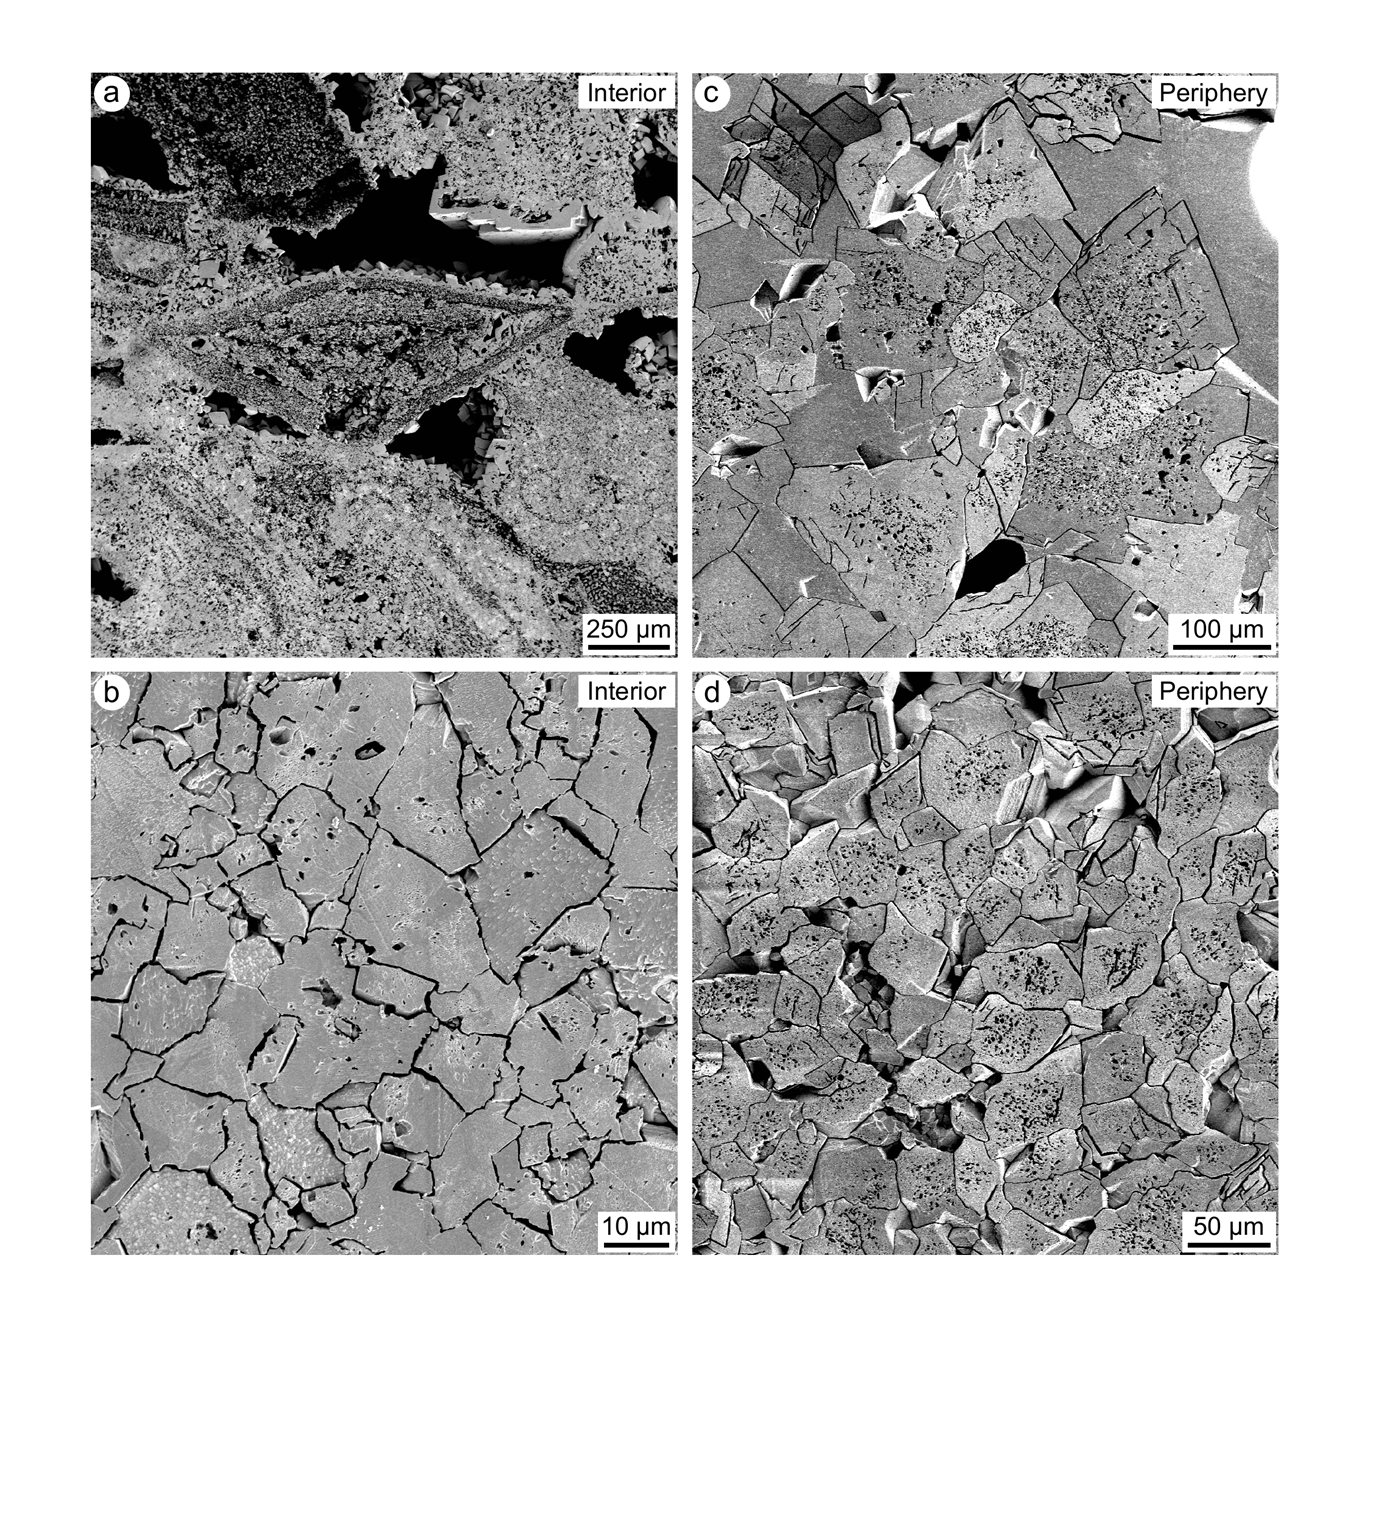
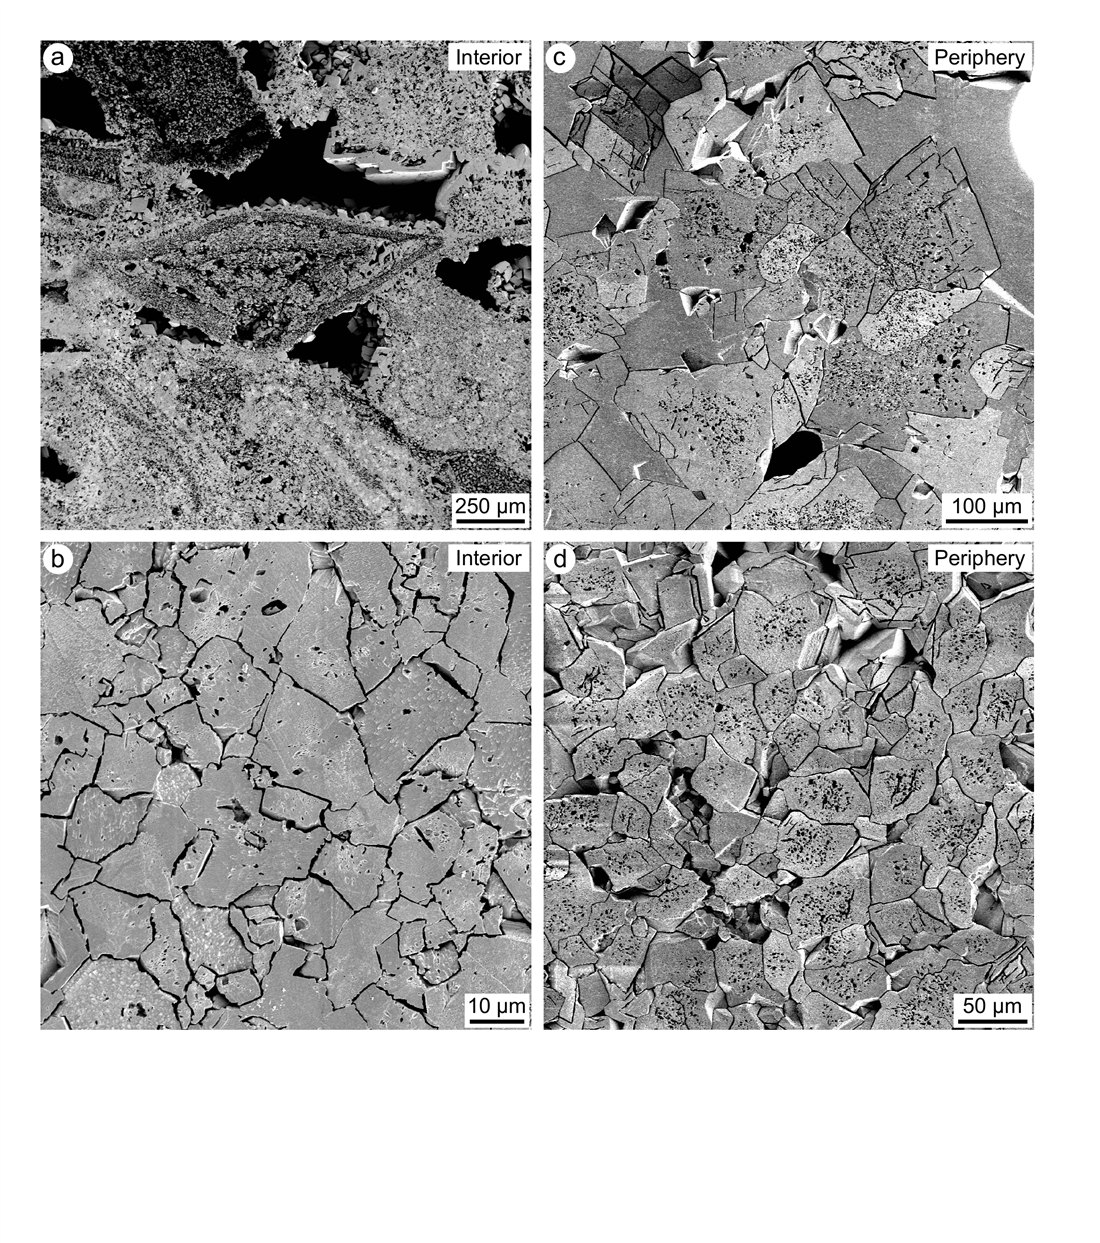
Polish Island Dolostones page: tighten lede/overview wording, add delta18O-fluid smoking-gun detail, crop and enlarge SEM/clumped-isotope figures, merge Ce/U-concentration plots into one figure, shorten in-text citations to APA et al. form

diff --git a/research-island-dolostones.html b/research-island-dolostones.html
@@ -27,9 +27,10 @@
     <div class="kicker">Research</div>
     <h1>Cenozoic Island Dolostones</h1>
     <p class="lede">
-      A best-case test of the carbonate archive: even where dolomitization looks as close to
-      &ldquo;textbook&rdquo; low-temperature, marine as the rock record gets, one geochemical proxy still
-      failed silently while another survived intact.
+      A best-case test of geochemical proxies in ancient dolostones: even where carbonate diagenesis
+      looks as close to &ldquo;textbook&rdquo; low-temperature, seawater dolomitization as the rock
+      record gets, carbonate clumped isotopes (&Delta;<sub>47</sub>) and cerium anomalies (Ce/Ce&#42;)
+      remain intact, while &delta;<sup>238</sup>U has been overprinted.
     </p>
   </div>
 
@@ -39,22 +40,23 @@
       Modern examples of low-temperature dolomite formation are rare, which makes Cenozoic &ldquo;island
       dolostones&rdquo; &mdash; like those on Grand Cayman and Cayman Brac (British West Indies) &mdash;
       one of the best natural laboratories available for testing how carbonate geochemical proxies hold
-      up during dolomitization. These platforms are young, shallowly buried, and still host active
-      groundwater systems, so the diagenetic fluids responsible for dolomitizing them can be directly
-      characterized rather than inferred.
+      up during dolomitization. These platforms are geologically young, have never been deeply buried,
+      and the conditions responsible for dolomitization can be reasonably inferred.
     </p>
     <p>
-      A well-documented dolomitization front on Grand Cayman gives an unusually clean version of this
+      A well-documented dolomitization front on Grand Cayman gives a clean version of this
       test. Using carbonate clumped isotopes (&Delta;<sub>47</sub>), dolostones along the platform
       <strong>periphery</strong> return a formation temperature of 19.1 &plusmn; 1.4&deg;C from a fluid
       with &delta;<sup>18</sup>O<sub>FLUID</sub> = 0.2 &plusmn; 0.5&permil; VSMOW &mdash; indistinguishable
-      from normal modern seawater. Petrographically, the dolomite crystals are clean and well-ordered.
-      By any standard, this is about as close to textbook, low-temperature marine dolomitization as the
+      from normal modern seawater. Petrographically, the dolomite crystals are pristine.
+      By any standard, this is about as close to textbook, low-temperature seawater dolomitization as the
       geological record offers.
     </p>
     <p>
       Then we measured uranium isotopes (&delta;<sup>238</sup>U) in that <em>same</em> dolomitization
-      front. Despite the pristine petrography and unambiguous seawater-temperature signal, &delta;<sup>238</sup>U
+      front. Despite pristine petrography and an unambiguous seawater-temperature and
+      &delta;<sup>18</sup>O<sub>FLUID</sub> signature &mdash; the smoking gun for true seawater
+      dolomitization &mdash; &delta;<sup>238</sup>U
       in the dolostones is offset from both modern seawater and the coeval limestone &mdash; a clear
       diagenetic overprint. Cerium anomalies (Ce/Ce&#42;), measured on the same samples, show no such
       offset at all. Two proxies, same rocks, same fluid history: one survives, one doesn't &mdash; and
@@ -96,9 +98,9 @@
       <img src="assets/img/figures/island-dolostones-fig3-sem-petrography.jpg" alt="SEM images of dolomite crystals from the interior and periphery of Grand Cayman, showing clean, well-ordered crystal faces with minimal secondary alteration.">
       <figcaption>
         The same story at much higher magnification &mdash; SEM petrography of Grand Cayman dolomite,
-        interior (a&ndash;b) and periphery (c&ndash;d): clean crystal faces and minimal secondary
+        interior (a&ndash;b) and periphery (c&ndash;d): pristine crystal faces and minimal secondary
         alteration, from hand sample down to the micron scale.
-        <span class="src">From Fig. 4, McCormick, Jones, Olsen &amp; Ingalls, Carbonate clumped isotopes (&Delta;<sub>47</sub>) in Cenozoic &lsquo;island dolostones&rsquo; (In Press, <em>Geochemistry, Geophysics, Geosystems</em>).</span>
+        <span class="src">From Fig. 4, McCormick et al. (In Press), Carbonate clumped isotopes (&Delta;<sub>47</sub>) in Cenozoic &lsquo;island dolostones&rsquo;.</span>
       </figcaption>
     </figure>
 
@@ -110,33 +112,21 @@
         diamonds) cluster at low temperature and near-zero &delta;<sup>18</sup>O<sub>FLUID</sub> &mdash;
         a normal-seawater signature &mdash; distinct from the warmer, evaporated &ldquo;interior&rdquo;
         samples (orange).
-        <span class="src">From Fig. 7, McCormick, Jones, Olsen &amp; Ingalls, Carbonate clumped isotopes (&Delta;<sub>47</sub>) in Cenozoic &lsquo;island dolostones&rsquo; (In Press, <em>Geochemistry, Geophysics, Geosystems</em>).</span>
+        <span class="src">From Fig. 7, McCormick et al. (In Press), Carbonate clumped isotopes (&Delta;<sub>47</sub>) in Cenozoic &lsquo;island dolostones&rsquo;.</span>
       </figcaption>
     </figure>
 
     <figure class="figure-card" style="margin-top:1.2rem;">
-      <img src="assets/img/figures/island-dolostones-fig-ce-anomalies.png" alt="Crossplot of cerium anomaly versus uranium isotope ratio, showing dolostone and limestone samples overlapping in cerium anomaly value regardless of rock type.">
+      <img src="assets/img/figures/island-dolostones-fig-u-isotopes-combined.png" alt="Two stacked crossplots: cerium anomaly and uranium concentration, each plotted against uranium isotope ratio, showing dolostone and limestone samples in distinct color-coded bands.">
       <figcaption>
-        Cerium anomalies (Ce/Ce&#42;) survive dolomitization: dolostone and limestone samples overlap at
-        Ce/Ce&#42; &asymp; 0.6 regardless of rock type. <strong>Colors:</strong> tan/brown markers and the
-        tan shaded band are dolostone samples and their 95% confidence interval; blue markers and the blue
-        shaded band are limestone samples and their 95% confidence interval; the dashed line marks modern
-        seawater. <strong>Shapes</strong> denote individual wells (GFN-2, HRQ-2, EEV-2, RWP-2).
-        <span class="src">From Fig. 2C, McCormick, Jones, Hardisty &amp; Lau, Decoupled behaviour of cerium anomalies and uranium isotopes during dolomitization (In Prep).</span>
-      </figcaption>
-    </figure>
-
-    <figure class="figure-card" style="margin-top:1.2rem;">
-      <img src="assets/img/figures/island-dolostones-fig-u-concentrations.png" alt="Crossplot of uranium concentration normalized to calcium and magnesium versus uranium isotope ratio, showing a wide, overlapping spread between dolostone and limestone samples." >
-      <figcaption>
-        Uranium concentration (U/(Ca+Mg)) versus &delta;<sup>238</sup>U: unlike Ce/Ce&#42;, both
-        concentration and isotope ratio scatter widely and overlap between dolostone and limestone,
-        underscoring that &delta;<sup>238</sup>U carries a diagenetic signal that concentration alone
-        doesn't reveal. <strong>Colors:</strong> tan/brown markers and shaded band are dolostone samples
-        and their 95% confidence interval; blue markers and shaded band are limestone samples and their
-        95% confidence interval; the dashed line marks modern seawater. <strong>Shapes</strong> denote
-        individual wells (GFN-2, HRQ-2, EEV-2, RWP-2).
-        <span class="src">From Fig. 2D, McCormick, Jones, Hardisty &amp; Lau, Decoupled behaviour of cerium anomalies and uranium isotopes during dolomitization (In Prep).</span>
+        Cerium anomalies (Ce/Ce&#42;, upper) survive dolomitization &mdash; dolostone and limestone
+        samples overlap at Ce/Ce&#42; &asymp; 0.6 regardless of rock type &mdash; while uranium
+        concentration (U/(Ca+Mg), lower) scatters widely and overlaps between rock types, showing that
+        concentration alone doesn't reveal the &delta;<sup>238</sup>U overprint. <strong>Colors:</strong>
+        tan/brown markers and shaded band are dolostone samples and their 95% confidence interval; blue
+        markers and shaded band are limestone samples and their 95% confidence interval; the dashed line
+        marks modern seawater.
+        <span class="src">From Fig. 2C&ndash;D, McCormick et al. (In Prep), Decoupled behaviour of cerium anomalies and uranium isotopes during dolomitization.</span>
       </figcaption>
     </figure>
   </section>

diff --git a/css/style.css b/css/style.css
@@ -254,9 +254,9 @@ ul.plain li { margin-bottom: 0.5em; }
 }
 
 .figure-card img {
-  max-width: 100%;
-  max-height: 520px;
-  width: auto;
+  width: 100%;
+  max-width: 640px;
+  height: auto;
   margin: 0 auto 1rem;
   border-radius: 6px;
   border: 1px solid var(--border);
